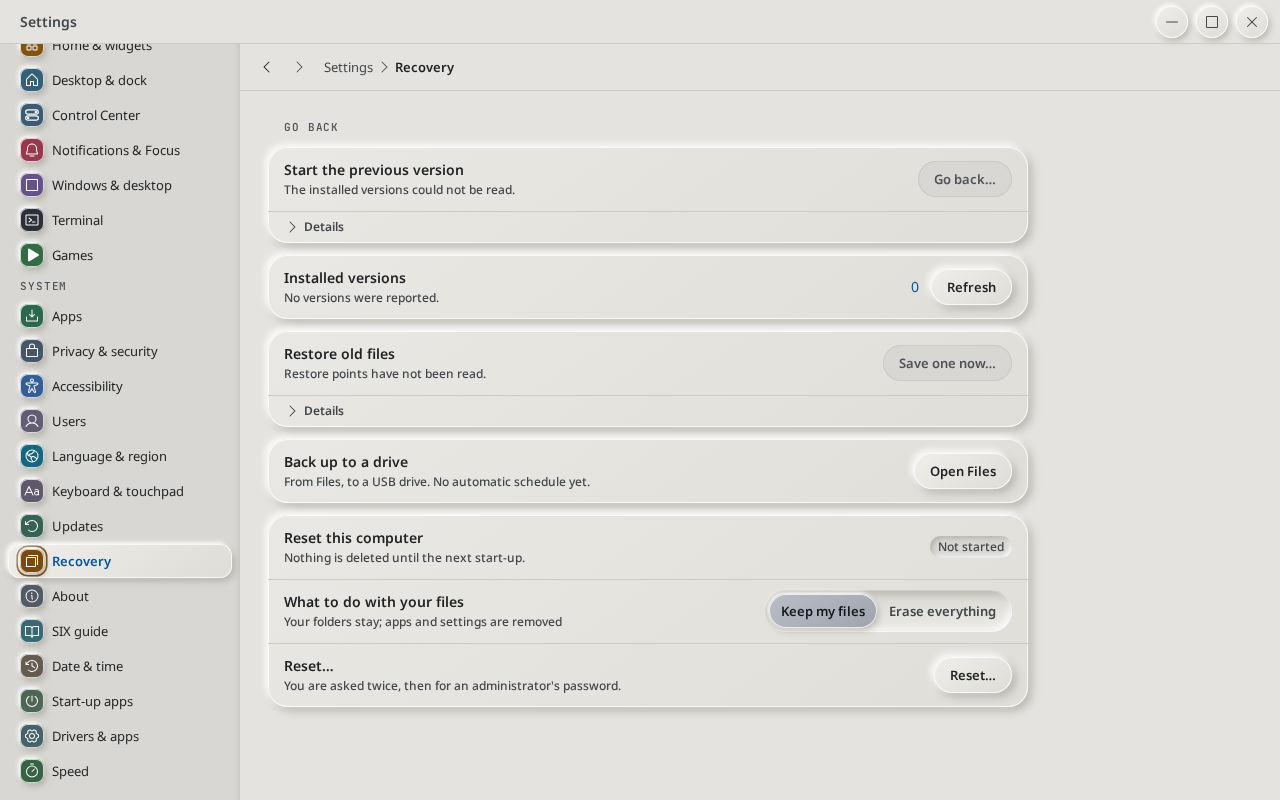
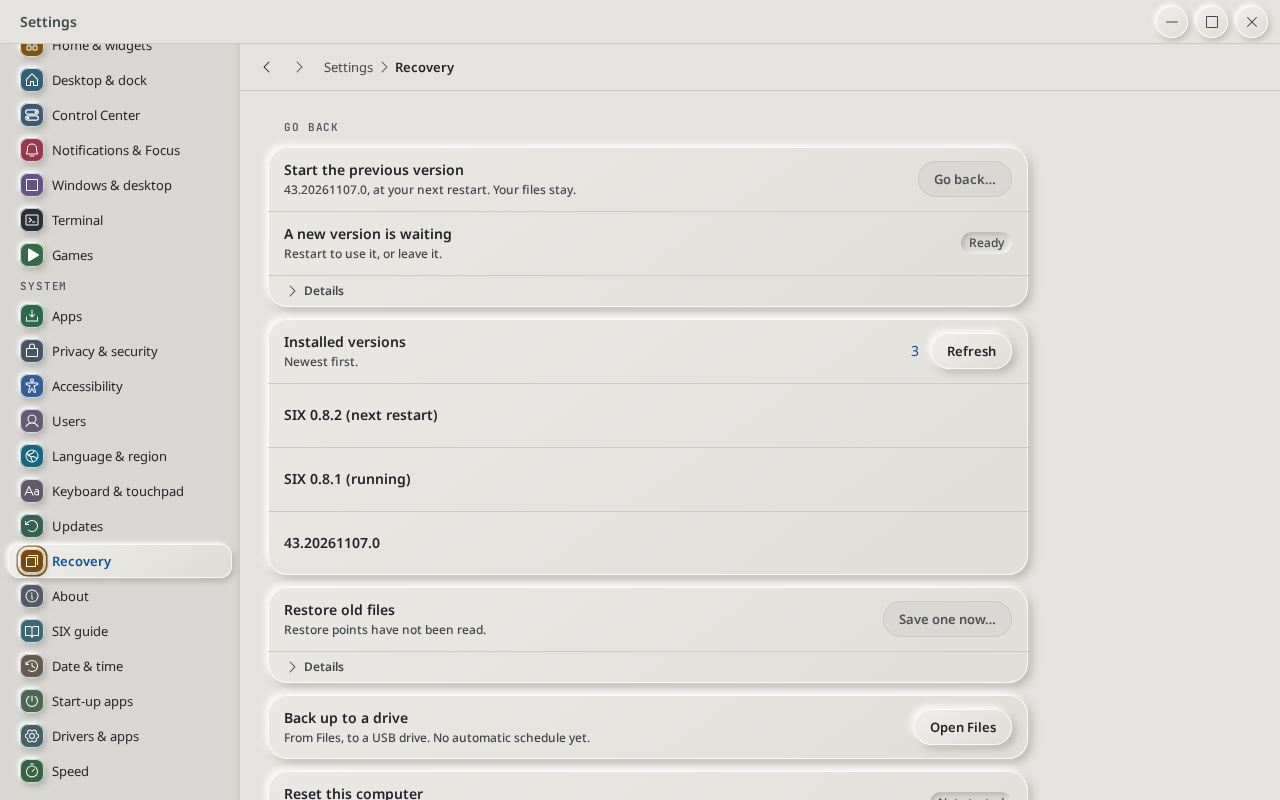
Settings: Updates, Recovery and About with SIX's own version number and What's new

Changed region(s): [[0.2188, 0.2812, 0.8125, 1.0], [0.2188, 0.2188, 0.4375, 0.25], [0.75, 0.2812, 0.8125, 0.3125]]

diff --git a/design/guide/16-system-apps.md b/design/guide/16-system-apps.md
@@ -67,7 +67,10 @@ accent; the drawn wallpapers; a link to Wallpaper for pictures), **SIX & voice**
 notch's switches, the folder SIX may see, "Check how SIX hears you"), **Control Center** (the board as
 a list, Advanced), **Games** (game mode, "Check this computer for games", "Set up Steam", your
 games), **Drivers & apps** (System Check: drivers and apps found from trusted sources, installed on
-approval), **Recovery** (the previous version, restore points of files, reset), **Speed** (what SIX
+approval), **Updates** (the version by SIX's own number, "SIX 0.8.1"; a check and a download that
+never restart the computer by themselves; "What's new", the notes of the version that is ready and
+of the one running), **Recovery** (the previous version, restore points of files, reset), **About**
+(the device, SIX's version, the base system's own number one press away), **Speed** (what SIX
 does to keep the computer quick, and the switch), **Keyboard & touchpad** (the shortcut list,
 above in [09](09-shell.md#keyboard-shortcuts), and "Which key is this?"), **Desktop & dock** (the
 dock, and "Minimise windows with: Scale / Lamp"), **SIX account** (sign in with a one-time link
